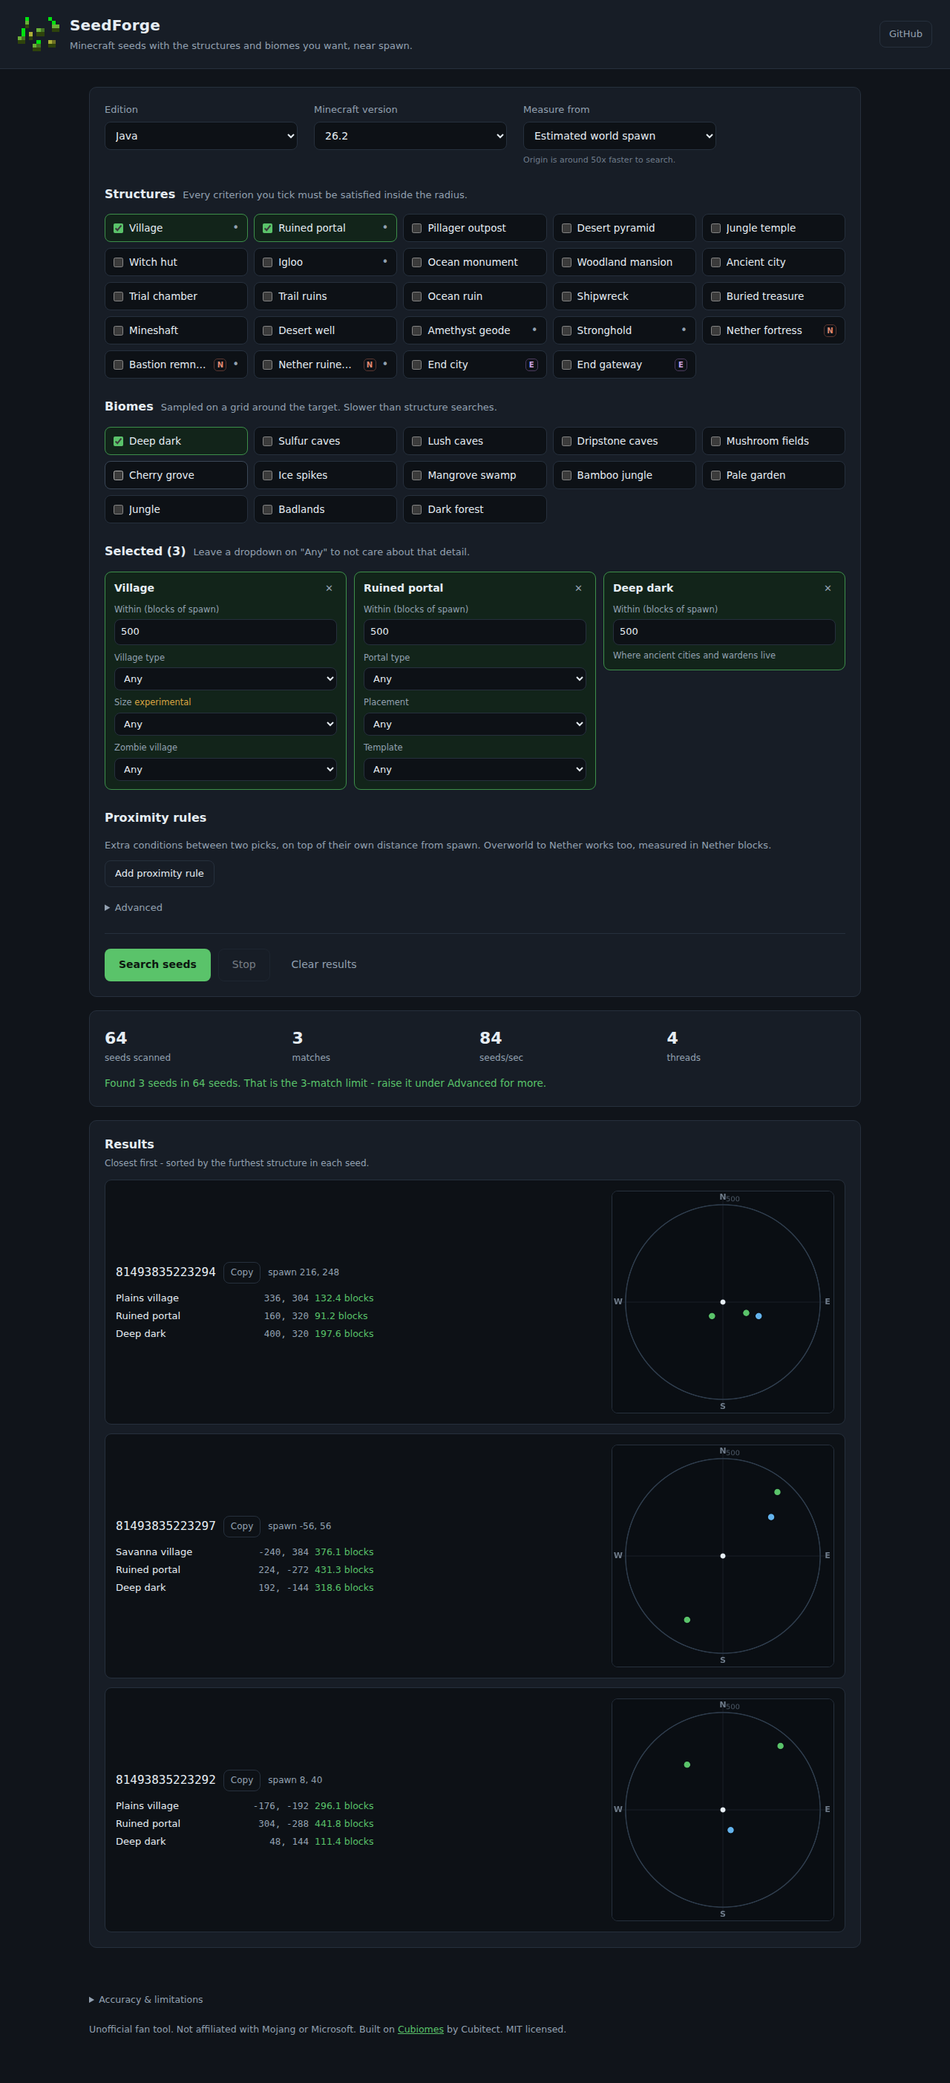
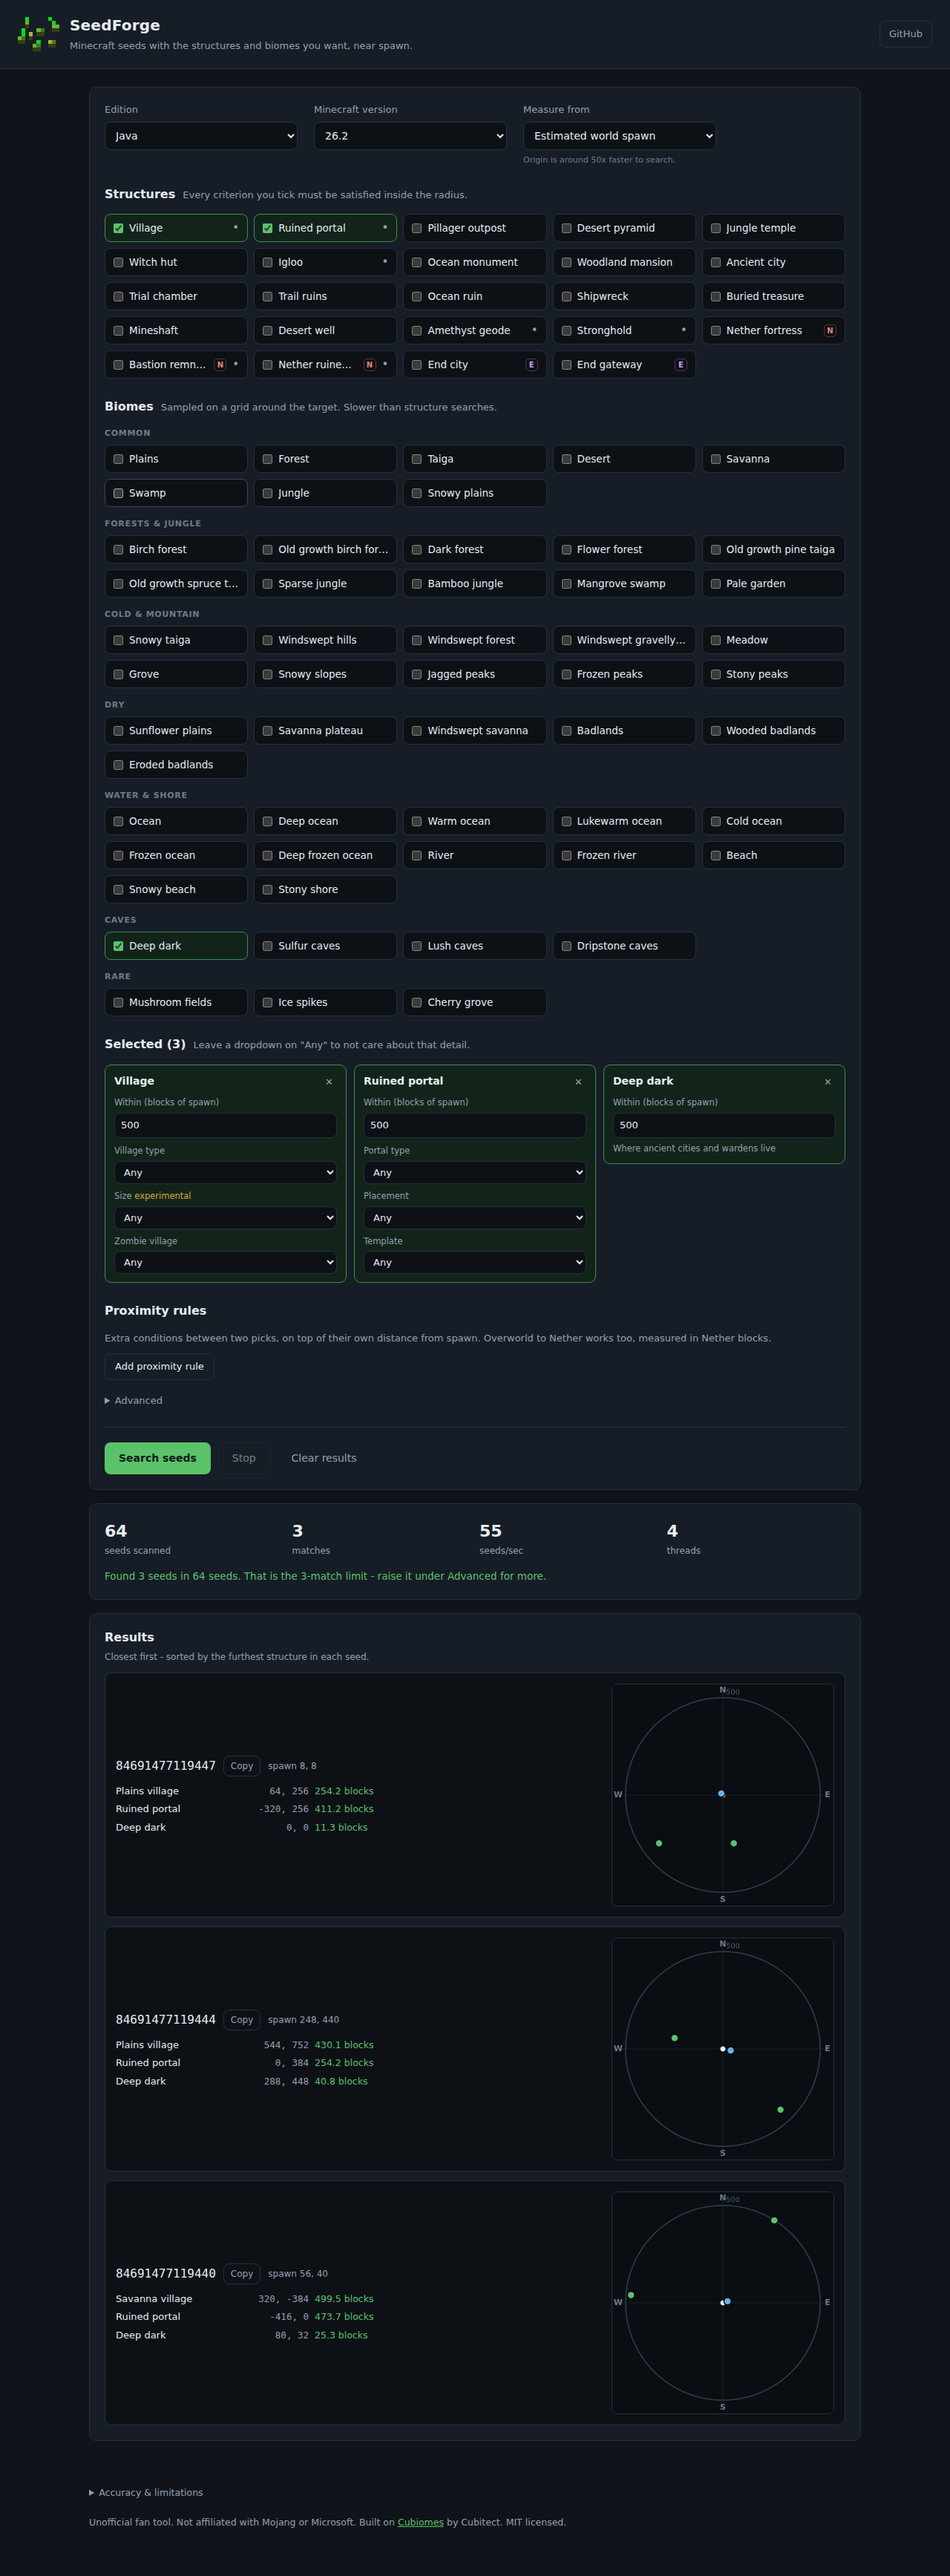
Add the common biomes and group the biome picker
The biome list was all exotics - deep dark, cherry grove, ice spikes - and
none of the ones people actually search for. It now covers 53 biomes including
plains, forest, birch forest, oak-and-birch woodland, taiga, desert, savanna,
swamp, the oceans, rivers and beaches, alongside the rare ones already there.

That many chips in one flat grid is unreadable, so biomes now render under
short headings: Common, Forests & jungle, Cold & mountain, Dry, Water & shore,
Caves, Rare. Version gating is unchanged and still asks the generator rather
than a hardcoded table, so 1.12 quietly drops the cave biomes and keeps
Forest.

Sample heights are per biome, because biomes have been three-dimensional since
1.18 and a peak sampled at sea level or a cave sampled at the surface would
never be found - the search would look like it worked and return nothing. That
is exactly how the sulfur caves gap hid, so every one of the 53 was probed
against the real generator before shipping: all 53 turn up, from Beach at 98%
of seeds down to Mushroom fields at 3%, which is about right for how rare it
is in game.

Added tests pinning the shape of the catalogue - no duplicate ids, every biome
in a real group, caves sampled below zero and everything else above it, peaks
sampled high enough to exist, and the basics actually present.

Claude-Session: https://claude.ai/code/session_015vmGb9Wmt1d6T4ZofNa9iZ

diff --git a/src/data/biomes.ts b/src/data/biomes.ts
@@ -1,32 +1,72 @@
 /** Biome ids (cubiomes/biomes.h). */
 export const BIOME = {
+  // surface
+  ocean: 0,
+  plains: 1,
+  desert: 2,
+  windswept_hills: 3,
+  forest: 4,
+  taiga: 5,
+  swamp: 6,
+  river: 7,
+  frozen_ocean: 10,
+  frozen_river: 11,
+  snowy_plains: 12,
   mushroom_fields: 14,
+  beach: 16,
+  jungle: 21,
+  sparse_jungle: 23,
+  deep_ocean: 24,
+  stony_shore: 25,
+  snowy_beach: 26,
+  birch_forest: 27,
+  dark_forest: 29,
+  snowy_taiga: 30,
+  old_growth_pine_taiga: 32,
+  windswept_forest: 34,
+  savanna: 35,
+  savanna_plateau: 36,
+  badlands: 37,
+  wooded_badlands: 38,
+  warm_ocean: 44,
+  lukewarm_ocean: 45,
+  cold_ocean: 46,
+  deep_lukewarm_ocean: 48,
+  deep_cold_ocean: 49,
+  deep_frozen_ocean: 50,
+  // variants (base + 128)
+  sunflower_plains: 129,
+  flower_forest: 132,
   ice_spikes: 140,
+  old_growth_birch_forest: 155,
+  old_growth_spruce_taiga: 160,
+  windswept_gravelly_hills: 131,
+  windswept_savanna: 163,
+  eroded_badlands: 165,
+  // 1.14+
+  bamboo_jungle: 168,
   dripstone_caves: 174,
   lush_caves: 175,
+  meadow: 177,
+  grove: 178,
+  snowy_slopes: 179,
+  jagged_peaks: 180,
+  frozen_peaks: 181,
+  stony_peaks: 182,
   deep_dark: 183,
-  sulfur_caves: 187,
   mangrove_swamp: 184,
   cherry_grove: 185,
   pale_garden: 186,
-  bamboo_jungle: 168,
-  badlands: 37,
-  jungle: 21,
-  dark_forest: 29,
-  // village variants
-  plains: 1,
-  desert: 2,
-  taiga: 5,
+  sulfur_caves: 187,
+  // village variants use these too
   snowy_tundra: 12,
-  savanna: 35,
-  meadow: 177,
 } as const;
 
 const VILLAGE_NAMES: Record<number, string> = {
   [BIOME.plains]: 'Plains',
   [BIOME.desert]: 'Desert',
   [BIOME.taiga]: 'Taiga',
-  [BIOME.snowy_tundra]: 'Snowy',
+  [BIOME.snowy_plains]: 'Snowy',
   [BIOME.savanna]: 'Savanna',
   [BIOME.meadow]: 'Meadow',
 };
@@ -35,36 +75,104 @@ export function biomeName(id: number): string | null {
   return VILLAGE_NAMES[id] ?? null;
 }
 
+/** Groups the biome picker renders under their own headings. */
+export const BIOME_GROUPS = [
+  { key: 'common', label: 'Common' },
+  { key: 'forest', label: 'Forests & jungle' },
+  { key: 'cold', label: 'Cold & mountain' },
+  { key: 'dry', label: 'Dry' },
+  { key: 'water', label: 'Water & shore' },
+  { key: 'cave', label: 'Caves' },
+  { key: 'rare', label: 'Rare' },
+] as const;
+
+export type BiomeGroup = (typeof BIOME_GROUPS)[number]['key'];
+
 export interface BiomeDef {
   readonly id: number;
   readonly name: string;
+  readonly group: BiomeGroup;
   /**
-   * Block height the grid is sampled at. Cave biomes only exist underground,
-   * so sampling at sea level would never find them.
+   * Block height the grid is sampled at. Biomes are three-dimensional from
+   * 1.18 on, so a cave biome sampled at sea level or a peak sampled at y=63
+   * would simply never be found.
    */
   readonly sampleY: number;
   readonly note?: string;
 }
 
 /**
- * Biomes offered as search criteria. This is a curated list of the ones people
- * actually hunt for, not every biome cubiomes knows - version availability is
- * checked at runtime through `sf_biome_supported()`.
+ * Biomes offered as search criteria. Version availability is not hardcoded -
+ * it is checked at runtime through `sf_biome_supported()`, so older versions
+ * automatically hide what did not exist yet.
  */
 export const SEARCHABLE_BIOMES: readonly BiomeDef[] = [
-  { id: BIOME.deep_dark, name: 'Deep dark', sampleY: -52, note: 'Where ancient cities and wardens live' },
-  { id: BIOME.sulfur_caves, name: 'Sulfur caves', sampleY: -16, note: 'Added in 26.2, home to sulfur cubes' },
-  { id: BIOME.lush_caves, name: 'Lush caves', sampleY: -32 },
-  { id: BIOME.dripstone_caves, name: 'Dripstone caves', sampleY: -32 },
-  { id: BIOME.mushroom_fields, name: 'Mushroom fields', sampleY: 63 },
-  { id: BIOME.cherry_grove, name: 'Cherry grove', sampleY: 100 },
-  { id: BIOME.ice_spikes, name: 'Ice spikes', sampleY: 80 },
-  { id: BIOME.mangrove_swamp, name: 'Mangrove swamp', sampleY: 63 },
-  { id: BIOME.bamboo_jungle, name: 'Bamboo jungle', sampleY: 70 },
-  { id: BIOME.pale_garden, name: 'Pale garden', sampleY: 80 },
-  { id: BIOME.jungle, name: 'Jungle', sampleY: 70 },
-  { id: BIOME.badlands, name: 'Badlands', sampleY: 80 },
-  { id: BIOME.dark_forest, name: 'Dark forest', sampleY: 70 },
+  // --- common ---
+  { id: BIOME.plains, name: 'Plains', group: 'common', sampleY: 70 },
+  { id: BIOME.forest, name: 'Forest', group: 'common', sampleY: 70 },
+  { id: BIOME.taiga, name: 'Taiga', group: 'common', sampleY: 70 },
+  { id: BIOME.desert, name: 'Desert', group: 'common', sampleY: 70 },
+  { id: BIOME.savanna, name: 'Savanna', group: 'common', sampleY: 70 },
+  { id: BIOME.swamp, name: 'Swamp', group: 'common', sampleY: 63 },
+  { id: BIOME.jungle, name: 'Jungle', group: 'common', sampleY: 70 },
+  { id: BIOME.snowy_plains, name: 'Snowy plains', group: 'common', sampleY: 70 },
+
+  // --- forests ---
+  { id: BIOME.birch_forest, name: 'Birch forest', group: 'forest', sampleY: 70 },
+  { id: BIOME.old_growth_birch_forest, name: 'Old growth birch forest', group: 'forest', sampleY: 70 },
+  { id: BIOME.dark_forest, name: 'Dark forest', group: 'forest', sampleY: 70 },
+  { id: BIOME.flower_forest, name: 'Flower forest', group: 'forest', sampleY: 70 },
+  { id: BIOME.old_growth_pine_taiga, name: 'Old growth pine taiga', group: 'forest', sampleY: 70 },
+  { id: BIOME.old_growth_spruce_taiga, name: 'Old growth spruce taiga', group: 'forest', sampleY: 70 },
+  { id: BIOME.sparse_jungle, name: 'Sparse jungle', group: 'forest', sampleY: 70 },
+  { id: BIOME.bamboo_jungle, name: 'Bamboo jungle', group: 'forest', sampleY: 70 },
+  { id: BIOME.mangrove_swamp, name: 'Mangrove swamp', group: 'forest', sampleY: 63 },
+  { id: BIOME.pale_garden, name: 'Pale garden', group: 'forest', sampleY: 80 },
+
+  // --- cold & mountain ---
+  { id: BIOME.snowy_taiga, name: 'Snowy taiga', group: 'cold', sampleY: 70 },
+  { id: BIOME.windswept_hills, name: 'Windswept hills', group: 'cold', sampleY: 100 },
+  { id: BIOME.windswept_forest, name: 'Windswept forest', group: 'cold', sampleY: 100 },
+  { id: BIOME.windswept_gravelly_hills, name: 'Windswept gravelly hills', group: 'cold', sampleY: 100 },
+  { id: BIOME.meadow, name: 'Meadow', group: 'cold', sampleY: 100 },
+  { id: BIOME.grove, name: 'Grove', group: 'cold', sampleY: 140 },
+  { id: BIOME.snowy_slopes, name: 'Snowy slopes', group: 'cold', sampleY: 150 },
+  { id: BIOME.jagged_peaks, name: 'Jagged peaks', group: 'cold', sampleY: 190 },
+  { id: BIOME.frozen_peaks, name: 'Frozen peaks', group: 'cold', sampleY: 190 },
+  { id: BIOME.stony_peaks, name: 'Stony peaks', group: 'cold', sampleY: 150 },
+
+  // --- dry ---
+  { id: BIOME.sunflower_plains, name: 'Sunflower plains', group: 'dry', sampleY: 70 },
+  { id: BIOME.savanna_plateau, name: 'Savanna plateau', group: 'dry', sampleY: 90 },
+  { id: BIOME.windswept_savanna, name: 'Windswept savanna', group: 'dry', sampleY: 90 },
+  { id: BIOME.badlands, name: 'Badlands', group: 'dry', sampleY: 80 },
+  { id: BIOME.wooded_badlands, name: 'Wooded badlands', group: 'dry', sampleY: 100 },
+  { id: BIOME.eroded_badlands, name: 'Eroded badlands', group: 'dry', sampleY: 90 },
+
+  // --- water & shore ---
+  { id: BIOME.ocean, name: 'Ocean', group: 'water', sampleY: 50 },
+  { id: BIOME.deep_ocean, name: 'Deep ocean', group: 'water', sampleY: 50 },
+  { id: BIOME.warm_ocean, name: 'Warm ocean', group: 'water', sampleY: 50 },
+  { id: BIOME.lukewarm_ocean, name: 'Lukewarm ocean', group: 'water', sampleY: 50 },
+  { id: BIOME.cold_ocean, name: 'Cold ocean', group: 'water', sampleY: 50 },
+  { id: BIOME.frozen_ocean, name: 'Frozen ocean', group: 'water', sampleY: 50 },
+  { id: BIOME.deep_frozen_ocean, name: 'Deep frozen ocean', group: 'water', sampleY: 50 },
+  { id: BIOME.river, name: 'River', group: 'water', sampleY: 63 },
+  { id: BIOME.frozen_river, name: 'Frozen river', group: 'water', sampleY: 63 },
+  { id: BIOME.beach, name: 'Beach', group: 'water', sampleY: 63 },
+  { id: BIOME.snowy_beach, name: 'Snowy beach', group: 'water', sampleY: 63 },
+  { id: BIOME.stony_shore, name: 'Stony shore', group: 'water', sampleY: 63 },
+
+  // --- caves ---
+  { id: BIOME.deep_dark, name: 'Deep dark', group: 'cave', sampleY: -52, note: 'Where ancient cities and wardens live' },
+  { id: BIOME.sulfur_caves, name: 'Sulfur caves', group: 'cave', sampleY: -16, note: 'Added in 26.2, home to sulfur cubes' },
+  { id: BIOME.lush_caves, name: 'Lush caves', group: 'cave', sampleY: -32 },
+  { id: BIOME.dripstone_caves, name: 'Dripstone caves', group: 'cave', sampleY: -32 },
+
+  // --- rare ---
+  { id: BIOME.mushroom_fields, name: 'Mushroom fields', group: 'rare', sampleY: 70 },
+  { id: BIOME.ice_spikes, name: 'Ice spikes', group: 'rare', sampleY: 80 },
+  { id: BIOME.cherry_grove, name: 'Cherry grove', group: 'rare', sampleY: 100 },
 ] as const;
 
 export function biomeById(id: number): BiomeDef | undefined {

diff --git a/src/ui/picker.ts b/src/ui/picker.ts
@@ -8,7 +8,7 @@
  * actually adjusting in one place.
  */
 
-import { SEARCHABLE_BIOMES, type BiomeDef } from '../data/biomes';
+import { BIOME_GROUPS, SEARCHABLE_BIOMES, type BiomeDef, type BiomeGroup } from '../data/biomes';
 import { STRUCTURES, type StructureDef, type VariantGroup } from '../data/structures';
 import { KIND, type Criterion, type CriterionKind, type ProximityRule } from '../search/types';
 
@@ -27,6 +27,8 @@ interface Entry {
   dim: 'overworld' | 'nether' | 'end';
   note?: string;
   variants?: readonly VariantGroup[];
+  /** Biome entries only: which heading they render under. */
+  group?: BiomeGroup;
 }
 
 const key = (kind: CriterionKind, id: number): string => `${kind}:${id}`;
@@ -49,6 +51,7 @@ function biomeEntry(def: BiomeDef): Entry {
     id: def.id,
     name: def.name,
     dim: 'overworld',
+    group: def.group,
     ...(def.note !== undefined ? { note: def.note } : {}),
   };
 }
@@ -88,9 +91,28 @@ export class CriterionPicker {
     this.structureRoot.replaceChildren(
       ...this.entries.filter((e) => e.kind === KIND.structure).map((e) => this.chip(e)),
     );
-    this.biomeRoot.replaceChildren(
-      ...this.entries.filter((e) => e.kind === KIND.biome).map((e) => this.chip(e)),
-    );
+    // Biomes are numerous enough that one flat grid is unreadable, so they
+    // render under short headings instead.
+    const biomes = this.entries.filter((e) => e.kind === KIND.biome);
+    const blocks: HTMLElement[] = [];
+    for (const group of BIOME_GROUPS) {
+      const inGroup = biomes.filter((e) => e.group === group.key);
+      if (inGroup.length === 0) continue;
+
+      const heading = document.createElement('h3');
+      heading.className = 'group-heading';
+      heading.textContent = group.label;
+
+      const grid = document.createElement('div');
+      grid.className = 'chip-grid';
+      grid.append(...inGroup.map((e) => this.chip(e)));
+
+      const block = document.createElement('div');
+      block.className = 'biome-group';
+      block.append(heading, grid);
+      blocks.push(block);
+    }
+    this.biomeRoot.replaceChildren(...blocks);
     this.renderSelected();
   }
 
@@ -176,7 +198,9 @@ export class CriterionPicker {
     const chip = document.createElement('label');
     chip.className = 'chip';
     chip.classList.toggle('on', on);
-    if (entry.note) chip.title = entry.note;
+    // Long names ellipsise in the grid, so the full text always lives in the
+    // tooltip alongside any note.
+    chip.title = entry.note ? `${entry.name} - ${entry.note}` : entry.name;
 
     const cb = document.createElement('input');
     cb.type = 'checkbox';

diff --git a/tests/biomes.test.ts b/tests/biomes.test.ts
@@ -1,0 +1,53 @@
+import { describe, expect, it } from 'vitest';
+
+import { BIOME_GROUPS, SEARCHABLE_BIOMES, biomeById } from '../src/data/biomes';
+
+describe('biome catalogue', () => {
+  it('has no duplicate ids', () => {
+    const ids = SEARCHABLE_BIOMES.map((b) => b.id);
+    expect(new Set(ids).size).toBe(ids.length);
+  });
+
+  it('puts every biome in a real group', () => {
+    const keys = new Set(BIOME_GROUPS.map((g) => g.key));
+    for (const b of SEARCHABLE_BIOMES) {
+      expect(keys.has(b.group), `${b.name} has group ${b.group}`).toBe(true);
+    }
+  });
+
+  it('samples cave biomes underground and everything else above sea level', () => {
+    // Biomes are three-dimensional from 1.18 on. A cave biome sampled at the
+    // surface, or a peak sampled at y=63, simply never turns up - the search
+    // looks like it works and silently returns nothing.
+    for (const b of SEARCHABLE_BIOMES) {
+      if (b.group === 'cave') {
+        expect(b.sampleY, `${b.name} should be sampled underground`).toBeLessThan(0);
+      } else {
+        expect(b.sampleY, `${b.name} should be sampled above sea level`).toBeGreaterThan(0);
+      }
+    }
+  });
+
+  it('samples peaks high enough to exist', () => {
+    for (const name of ['Jagged peaks', 'Frozen peaks']) {
+      const b = SEARCHABLE_BIOMES.find((x) => x.name === name)!;
+      expect(b.sampleY, `${name}`).toBeGreaterThanOrEqual(150);
+    }
+  });
+
+  it('looks up by id', () => {
+    const first = SEARCHABLE_BIOMES[0]!;
+    expect(biomeById(first.id)?.name).toBe(first.name);
+    expect(biomeById(-999)).toBeUndefined();
+  });
+
+  it('covers the basics people actually search for', () => {
+    const names = SEARCHABLE_BIOMES.map((b) => b.name);
+    for (const expected of [
+      'Plains', 'Forest', 'Birch forest', 'Dark forest', 'Taiga', 'Desert',
+      'Savanna', 'Swamp', 'Jungle', 'Ocean', 'River', 'Beach', 'Snowy plains',
+    ]) {
+      expect(names, `missing ${expected}`).toContain(expected);
+    }
+  });
+});

diff --git a/src/ui/styles.css b/src/ui/styles.css
@@ -132,6 +132,17 @@ input:focus, select:focus { outline: 2px solid var(--accent-dark); outline-offse
 
 /* --- chip grid ------------------------------------------------------ */
 
+.biome-group + .biome-group { margin-top: 14px; }
+
+.group-heading {
+  margin: 0 0 7px;
+  font-size: 11px;
+  font-weight: 600;
+  letter-spacing: 0.7px;
+  text-transform: uppercase;
+  color: #6f7c8b;
+}
+
 .chip-grid {
   display: grid;
   grid-template-columns: repeat(auto-fill, minmax(186px, 1fr));

diff --git a/src/index.html b/src/index.html
@@ -64,7 +64,7 @@
             <h2>Biomes</h2>
             <p class="hint">Sampled on a grid around the target. Slower than structure searches.</p>
           </div>
-          <div id="biome-list" class="chip-grid"></div>
+          <div id="biome-list"></div>
         </div>
 
         <div class="section selected-section" hidden>

diff --git a/README.md b/README.md
@@ -29,9 +29,10 @@ account and nothing leaves your machine.
   distances from spawn. These work across the Overworld and the Nether too:
   "bastion within 300 blocks of the ruined portal" divides the portal's
   coordinates by 8 to find where it drops you, and measures from there.
-- **Biome criteria too.** Hunt for the deep dark (wardens and ancient cities),
-  sulfur caves, lush caves, dripstone caves, mushroom fields, cherry groves,
-  ice spikes and more, alongside your structure picks.
+- **Biome criteria too.** Over 50 biomes, from the everyday (plains, forest,
+  birch forest, taiga, desert, ocean, river) to the ones worth hunting for
+  (deep dark, sulfur caves, mushroom fields, cherry grove, ice spikes),
+  grouped so the list stays readable and searchable alongside structures.
 - **Variant filters.** Village biome type (plains, desert, savanna, taiga,
   snowy) and zombie villages are exact. Ruined portals split into three
   independent selectors - type, placement and template. Bastion remnants filter
@@ -248,6 +249,10 @@ suspects.
   very large ones. A biome patch smaller than the sample spacing can be stepped
   over, so a biome search can miss a small patch. It never invents one. Biome
   searches are also noticeably slower than structure searches.
+- Biomes are three-dimensional from 1.18 on, so each one is sampled at a height
+  it actually occupies: caves underground, peaks high up, everything else near
+  the surface. Every biome in the list has been checked to confirm it really
+  turns up rather than silently matching nothing.
 - Ore placement is not searchable at all.
 
 Always verify a seed in-game before committing a world to it.
